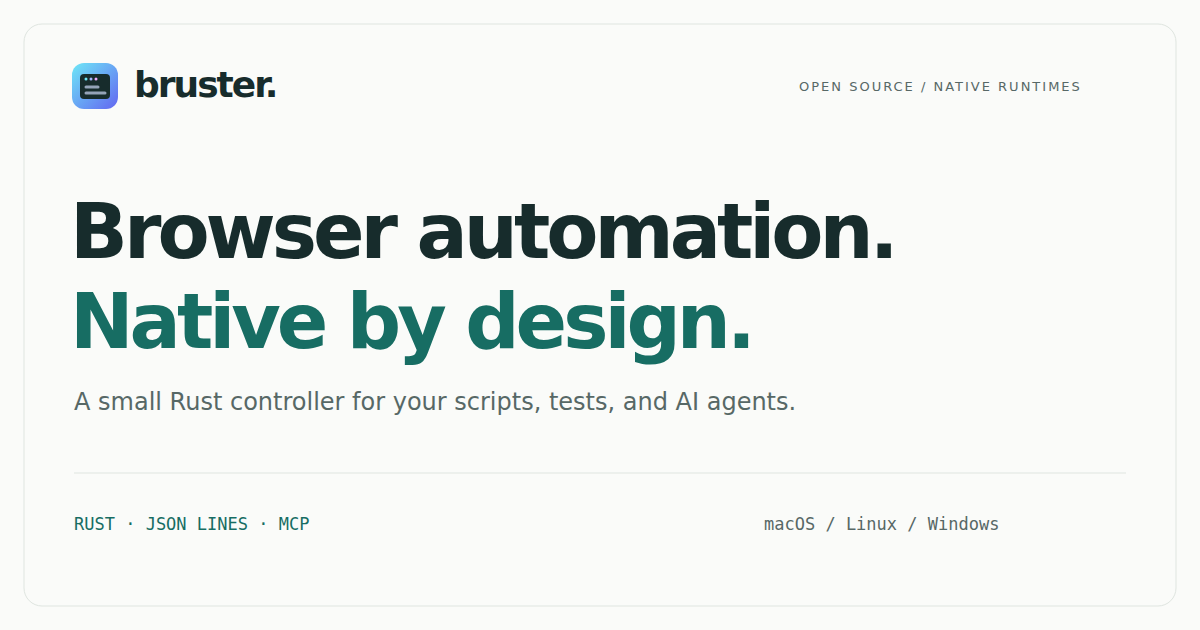
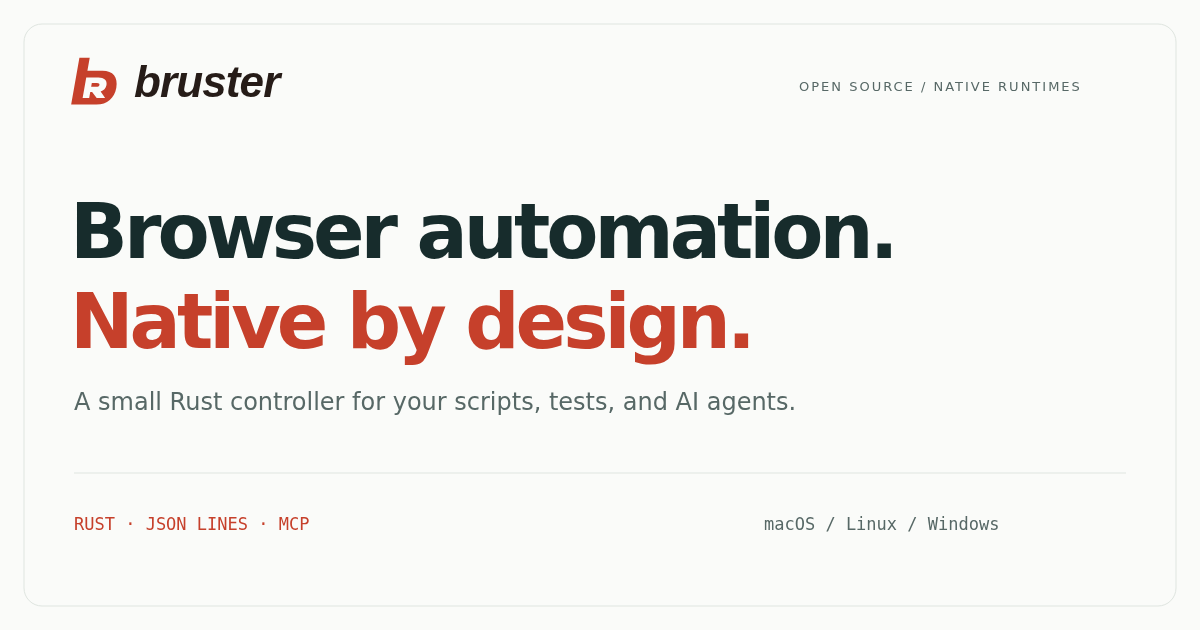
Apply Relay identity across website and GitHub assets

diff --git a/site/_layout.html b/site/_layout.html
@@ -5,7 +5,10 @@
   <meta name="viewport" content="width=device-width, initial-scale=1">
   {{metadata}}
   <meta name="theme-color" content="#fafbf9">
-  <link rel="icon" type="image/svg+xml" href="{{base}}assets/logo.svg">
+  <link rel="icon" href="{{base}}assets/favicon.ico" sizes="any">
+  <link rel="icon" type="image/png" sizes="32x32" href="{{base}}assets/favicon-32.png">
+  <link rel="icon" type="image/svg+xml" href="{{base}}assets/favicon.svg">
+  <link rel="apple-touch-icon" sizes="180x180" href="{{base}}assets/apple-touch-icon.png">
   <script>document.documentElement.classList.add('js');</script>
   <link rel="stylesheet" href="{{base}}assets/site.css">
   <script src="{{base}}assets/site.js" defer></script>
@@ -15,7 +18,7 @@
   <a class="skip-link" href="#main">Skip to content</a>
   <header class="site-header">
     <div class="container header-inner">
-      <a class="brand" href="{{base}}" aria-label="bruster home"><img src="{{base}}assets/logo.svg" alt="" width="32" height="32">bruster<span class="brand-dot">.</span></a>
+      <a class="brand" href="{{base}}" aria-label="bruster home"><img src="{{base}}assets/wordmark.svg" alt="bruster" width="144" height="36"></a>
       <button class="nav-toggle" type="button" aria-expanded="false" aria-controls="site-nav" hidden>Menu <span aria-hidden="true">☰</span></button>
       <nav id="site-nav" class="site-nav" aria-label="Main navigation">
         {{nav}}
@@ -27,7 +30,7 @@
   {{content}}
   <footer class="site-footer">
     <div class="container footer-grid">
-      <div><a class="brand" href="{{base}}"><img src="{{base}}assets/logo.svg" alt="" width="28" height="28">bruster<span class="brand-dot">.</span></a><p>Small controller. Real browser. Your workflow.</p></div>
+      <div><a class="brand" href="{{base}}"><img src="{{base}}assets/wordmark.svg" alt="bruster" width="128" height="32"></a><p>Small controller. Real browser. Your workflow.</p></div>
       <nav aria-label="Resources"><span class="footer-label">Build with bruster</span><a href="{{base}}docs/">Documentation</a><a href="{{base}}mcp/">MCP setup</a><a href="{{base}}docs/#api">API reference</a></nav>
       <nav aria-label="Project"><span class="footer-label">Explore the project</span><a href="{{base}}benchmarks/">Benchmarks</a><a href="{{base}}compare/">Compare tools</a><a href="{{repository}}/releases">Releases <span aria-hidden="true">↗</span></a><a href="https://hub.docker.com/r/ilyastmn/bruster">Docker Hub <span aria-hidden="true">↗</span></a></nav>
     </div>

diff --git a/site/assets/site.css b/site/assets/site.css
@@ -2,8 +2,8 @@
   color-scheme: light;
   --ink: #172c2c;
   --muted: #576866;
-  --accent: #176d63;
-  --accent-hover: #10564e;
+  --accent: #c6402b;
+  --accent-hover: #a53220;
   --line: #dfe5e0;
   --surface: #fff;
   --soft: #f1f5ef;
@@ -43,8 +43,7 @@ ul, ol { padding-left: 1.3rem; }
 .site-header { position: sticky; top: 0; z-index: 20; background: rgb(250 251 249 / 96%); border-bottom: 1px solid var(--line); }
 .header-inner { display: flex; min-height: 80px; align-items: center; justify-content: space-between; gap: 2rem; }
 .brand { display: inline-flex; align-items: center; gap: .6rem; color: var(--ink); font-size: 1.5rem; font-weight: 750; letter-spacing: -.055em; text-decoration: none; white-space: nowrap; }
-.brand img { flex: none; border-radius: 8px; }
-.brand-dot { color: var(--accent); margin-left: -.55rem; }
+.brand img { flex: none; }
 .site-nav { display: flex; align-items: center; gap: 2rem; }
 .site-nav > a { font-size: .84rem; font-weight: 550; text-decoration: none; color: var(--muted); }
 .site-nav > a:hover, .site-nav > a[aria-current="page"] { color: var(--accent); }

diff --git a/scripts/site_build.py b/scripts/site_build.py
@@ -100,7 +100,9 @@ def build(output, measurements=None, base_url=SITE_URL):
             shutil.copyfile(measurements / 'CNAME', output / 'CNAME')
     history = render_reports(output / 'benchmarks', base_url=base_url)
     shutil.copytree(SITE / 'assets', output / 'assets', dirs_exist_ok=True)
-    shutil.copyfile(ROOT / 'assets/logo.svg', output / 'assets/logo.svg')
+    for name in ('logo.svg', 'wordmark.svg', 'favicon.svg', 'favicon.ico',
+                 'favicon-32.png', 'apple-touch-icon.png'):
+        shutil.copyfile(ROOT / 'assets' / name, output / 'assets' / name)
     base = html.escape(urlsplit(base_url).path, quote=True)
     version = tomllib.loads((ROOT / 'Cargo.toml').read_text())['package']['version']
     values = {

diff --git a/assets/README.md b/assets/README.md
@@ -1,0 +1,69 @@
+# Bruster — Relay identity
+
+Relay combines a forward-leaning lowercase **b** with an uppercase **R** in its
+negative space. The ten-degree lean expresses motion; the broad silhouette and
+open counter keep the mark compact. This is the selected **01 / Relay** design.
+
+## Assets
+
+| Asset | Use |
+| --- | --- |
+| [`logo.svg`](logo.svg) / [`logo.png`](logo.png) | Coral mark; transparent 512×512 PNG |
+| [`logo-black.svg`](logo-black.svg) / [`logo-white.svg`](logo-white.svg) | Single-color reproduction |
+| [`wordmark.svg`](wordmark.svg) | Outlined horizontal lockup for light backgrounds |
+| [`wordmark-dark.svg`](wordmark-dark.svg) | Peach/paper horizontal lockup for dark backgrounds |
+| [`avatar.svg`](avatar.svg) / [`avatar.png`](avatar.png) | Padded 512×512 profile picture; supports circular cropping |
+| [`favicon.svg`](favicon.svg) | Adaptive coral/peach browser icon for light/dark browser chrome |
+| [`favicon.ico`](favicon.ico) / [`favicon-32.png`](favicon-32.png) | 16/32/48 px ICO and 32 px PNG fallback |
+| [`apple-touch-icon.png`](apple-touch-icon.png) | 180×180 touch icon on warm paper |
+| [`social.png`](../site/assets/social.png) | 1200×630 website and GitHub social preview |
+
+The website uses the outlined wordmark in its header and footer. The GitHub
+README selects the matching light/dark lockup. For a GitHub repository social
+preview upload, use `site/assets/social.png` in the repository's settings.
+
+## Palette and type
+
+| Role | Color |
+| --- | --- |
+| Coral / light-background mark | `#c6402b` |
+| Coral hover | `#a53220` |
+| Peach / dark-background mark | `#ff956f` |
+| Wordmark ink | `#261c18` |
+| Warm paper | `#faeee5` |
+
+The wordmark is **Liberation Sans Bold Italic**, optically spaced at -20/1000 em
+and converted to SVG paths. Liberation Fonts are licensed under
+[SIL Open Font License 1.1](https://github.com/liberationfonts/liberation-fonts/blob/main/LICENSE).
+The shipped logo and wordmark SVGs have no font or external-image dependencies.
+The editable social SVG uses Liberation Sans and DejaVu Sans/Mono for its text;
+the exported PNG is self-contained.
+
+## Usage
+
+- Keep the original proportions, lean, and b/R counterform.
+- Leave clear space of at least one outer-stem width: 44 units on the 256-unit
+  symbol canvas, or about one fifth of its visible height.
+- Prefer 24 px or larger for the mark. At 16 px, the b silhouette leads and the
+  internal R is subtler. Use the supplied favicon for that context.
+- Use the horizontal lockup at 128 px wide or larger.
+- Use `avatar.png` for circular crops; its extra padding protects the silhouette.
+- Use the white mark or dark-background wordmark on dark surfaces.
+- Avoid stretching, adding effects, or separately repositioning the inner R.
+
+`logo.svg` is the canonical symbol geometry. The monochrome marks, wordmarks,
+avatar, favicon and social source embed that exact path and lean transform.
+Keep those copies synchronized when making an intentional geometry change.
+
+## Raster exports
+
+With librsvg and Pillow installed:
+
+```sh
+rsvg-convert -w 512 -h 512 assets/logo.svg -o assets/logo.png
+rsvg-convert -w 512 -h 512 assets/avatar.svg -o assets/avatar.png
+rsvg-convert -w 32 -h 32 assets/logo.svg -o assets/favicon-32.png
+rsvg-convert -w 180 -h 180 assets/avatar.svg -o assets/apple-touch-icon.png
+rsvg-convert site/assets/social.svg -o site/assets/social.png
+python3 -c 'from PIL import Image; Image.open("assets/logo.png").save("assets/favicon.ico", sizes=[(16,16),(32,32),(48,48)])'
+```

diff --git a/README.md b/README.md
@@ -1,4 +1,9 @@
-# bruster
+<h1>
+  <picture>
+    <source media="(prefers-color-scheme: dark)" srcset="assets/wordmark-dark.svg">
+    <img src="assets/wordmark.svg" alt="bruster" width="320" height="80">
+  </picture>
+</h1>
 
 [![CI](https://github.com/aliilyas/bruster/actions/workflows/ci.yml/badge.svg)](https://github.com/aliilyas/bruster/actions/workflows/ci.yml)
 [![Release](https://img.shields.io/github/v/release/aliilyas/bruster?label=release&color=6ee7f7)](https://github.com/aliilyas/bruster/releases/latest)
